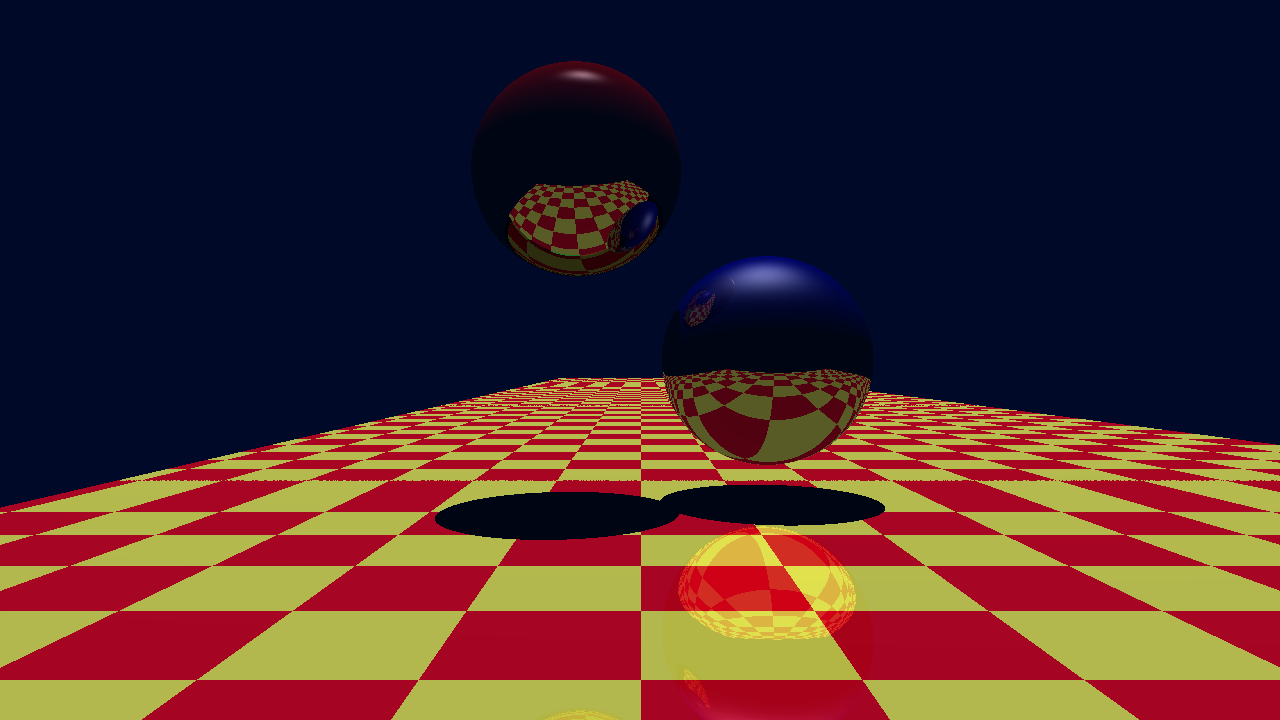
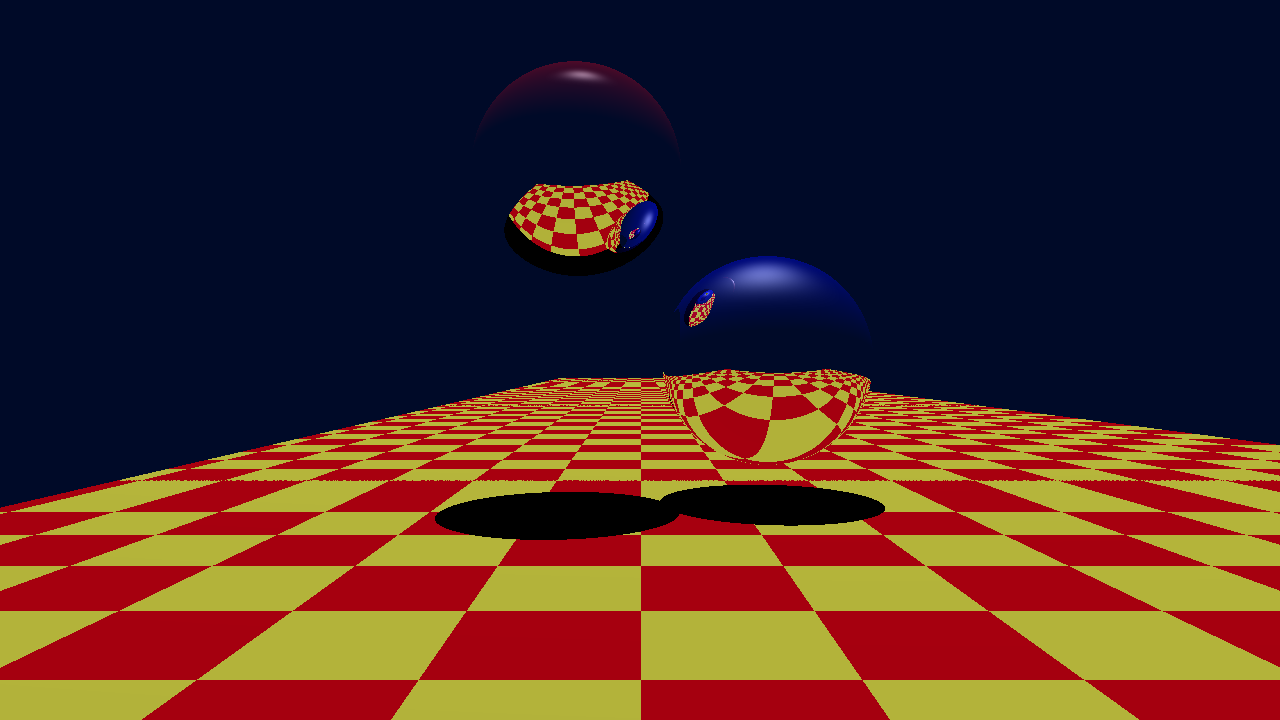
Added structure for transmission

diff --git a/RayTracer/RayTracer/RayTracer.cpp b/RayTracer/RayTracer/RayTracer.cpp
@@ -75,6 +75,23 @@ Color illuminate(glm::vec3 v, glm::vec3 v0, int bounce_depth) {
 			}
 		}
 
+		float kr = 0;
+		float kt = 0;
+		float IOR = 0;
+		switch (nearest.type)
+		{
+		case SPHERE:
+			kr = sph_mats[nearest.index]->kr;
+			kt = sph_mats[nearest.index]->kt;
+			IOR = sph_mats[nearest.index]->IOR;
+			break;
+		case TRIANGLE:
+			kr = tri_mats[nearest.index]->kr;
+			kt = tri_mats[nearest.index]->kt;
+			IOR = tri_mats[nearest.index]->IOR;
+			break;
+		}
+
 		out_color = Color(0, 0, 0);
 		for (int i = 0; i < illuminationLightCount; ++i) {
 			switch (nearest.type)
@@ -91,12 +108,30 @@ Color illuminate(glm::vec3 v, glm::vec3 v0, int bounce_depth) {
 		}
 
 		if (bounce_depth < max_bounce) {
-			glm::vec3 nv = nearest.reflective;
-			glm::vec3 nv0 = nearest.point;
-			out_color = out_color + illuminate(nv, nv0, bounce_depth + 1) * 0.5f;
+			if (kr > 0) {
+				out_color = out_color + illuminate(nearest.reflective, nearest.point, bounce_depth + 1) * kr;
+			}
 
-			if (nearest.type == SPHERE) {
-				//std::cout << "SPHERE";
+			if (kt > 0) {
+				float sqrt_term;
+				bool isBackFace = glm::dot(v, nearest.normal) > 0;
+
+				if (isBackFace)
+					sqrt_term = 1 - (1 - powf(glm::dot(v, nearest.normal), 2)) / pow(IOR, 2);
+				else
+					sqrt_term = 1 - (1 - powf(glm::dot(v, nearest.normal), 2)) / pow(IOR, 2);
+
+				glm::vec3 n = nearest.normal;
+				glm::vec3 t;
+
+				if (sqrt_term >= 0)
+				{
+					t = glm::normalize(((v - n * glm::dot(v, n)) / IOR) + n * sqrtf(sqrt_term));
+				}
+				else {
+					t = nearest.reflective;
+				}
+				out_color = out_color + illuminate(t, nearest.point, bounce_depth + 1) * kt;
 			}
 		}
 	}
@@ -148,11 +183,11 @@ int main() {
 	// Initialize object data
 	//sph_arr[0] = Sphere_Data{ glm::vec3(27.54, -2.88, 2.27), 1.1f };
 	sph_arr[0] = Sphere_Data{ glm::vec3(25, -3, 3), 1.1f };
-	sph_mats[0] = new Phong(0.2f, 0.4f, 0.4f, 75.f, Color(255, 0, 0), Color(255, 255, 255));
+	sph_mats[0] = new Phong(0.2f, 0.4f, 0.4f, 75.f, 0.f, 1.0f, 1.f, Color(255, 0, 0), Color(255, 255, 255));
 
 	//sph_arr[1] = Sphere_Data{ glm::vec3(29.94, -4.73, 2.82), 1.1f };
 	sph_arr[1] = Sphere_Data{ glm::vec3(25, -1, 1), 1.1f };
-	sph_mats[1] = new Phong(0.2f, 0.4f, 0.4f, 10.f, Color(0, 0, 255), Color(255, 255, 255));
+	sph_mats[1] = new Phong(0.2f, 0.4f, 0.4f, 10.f, 1.f, 0.0f, 0.0f, Color(0, 0, 255), Color(255, 255, 255));
 
 	tri_arr[0] = Triangle_Data{ glm::vec3(32, 0.44, 8.6), glm::vec3(-32, 0.44, 8.6), glm::vec3(32, 0.44, -8.6) };
 	tri_mats[0] = new CheckerBoard(glm::vec3(32.f, 0.44, 8.6), 1.f, 1.f, Color(187, 187, 61), Color(173, 1, 16));

diff --git a/RayTracer/RayTracer/Phong.cpp b/RayTracer/RayTracer/Phong.cpp
@@ -9,11 +9,14 @@ Phong::Phong() {
 	specular = Color(255, 255, 255);
 }
 
-Phong::Phong(float _ka, float _kd, float _ks, float _ke, Color _diffuse, Color _specular) {
+Phong::Phong(float _ka, float _kd, float _ks, float _ke, float _kr, float _kt, float _IOR, Color _diffuse, Color _specular) {
 	ka =_ka;
 	kd = _kd;
 	ks = _ks;
 	ke = _ke;
+	kr = _kr;
+	kt = _kt;
+	IOR = _IOR;
 	diffuse = _diffuse;
 	specular = _specular;
 }

diff --git a/RayTracer/RayTracer/Phong.h b/RayTracer/RayTracer/Phong.h
@@ -6,7 +6,7 @@ class Phong : public BSDF
 {
 public:
 	Phong();
-	Phong(float _ka, float _kd, float _ks, float _ke, Color _diffuse, Color _specular);
+	Phong(float _ka, float _kd, float _ks, float _ke, float _kr, float _kt, float _IOR, Color _diffuse, Color _specular);
 
 	virtual Color illuminate(Intersection intersection, LightSource light) override;
 

diff --git a/RayTracer/RayTracer/BSDF.h b/RayTracer/RayTracer/BSDF.h
@@ -6,5 +6,10 @@ class BSDF
 {
 public:
 	virtual Color illuminate(Intersection intersection, LightSource light);
+
+public:
+	float kr = 0;
+	float kt = 0;
+	float IOR = 0;
 };
 
